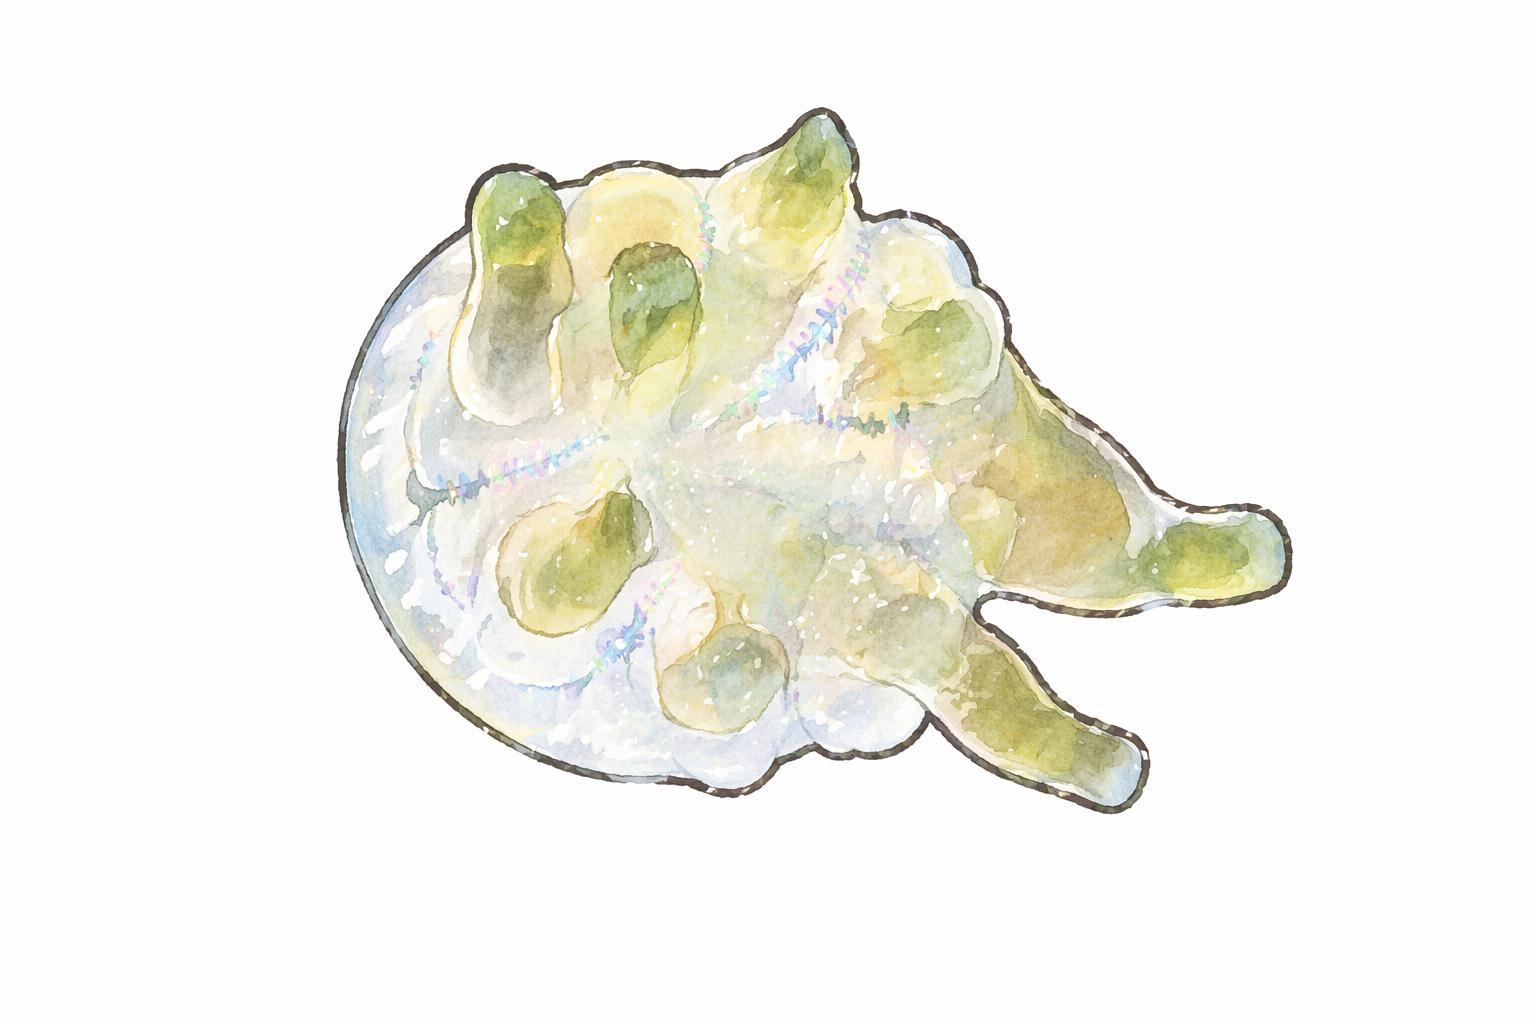
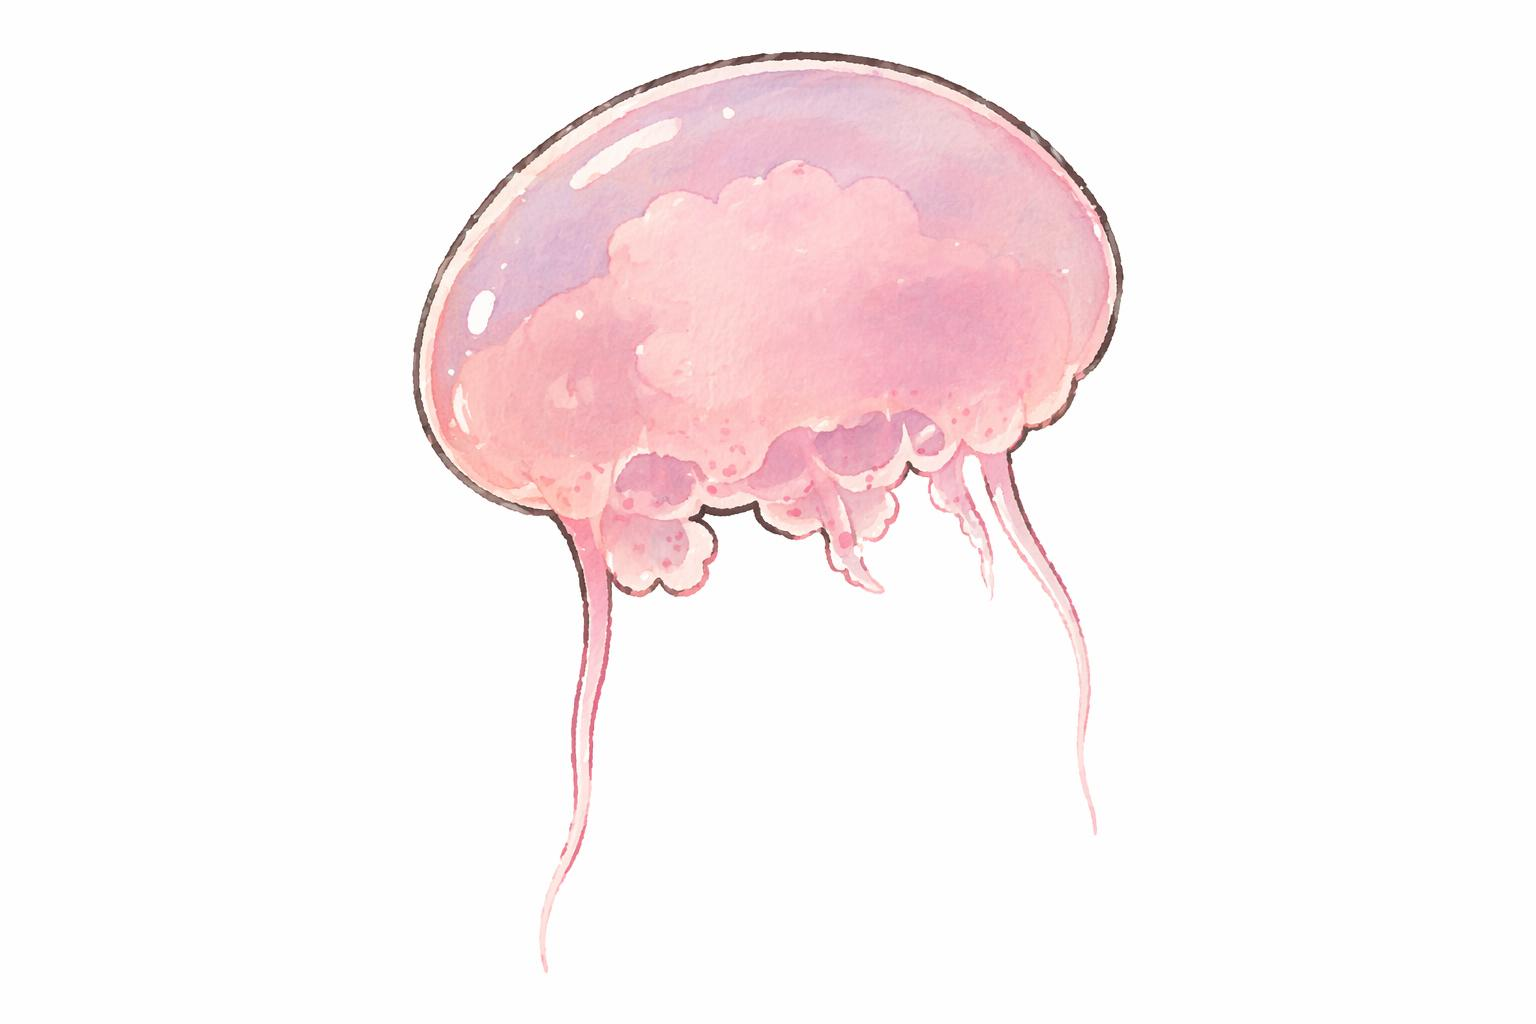
Update sample video and persist original media

Changed region(s): [[0.2188, 0.0312, 0.8438, 0.8125], [0.3438, 0.8125, 0.375, 0.9375]]

diff --git a/QiyuBook-iOS/QiyuBook/RecordHomeView.swift b/QiyuBook-iOS/QiyuBook/RecordHomeView.swift
@@ -111,18 +111,6 @@ struct RecordHomeView: View {
         } message: {
             Text(errorMessage ?? "")
         }
-        .confirmationDialog("选择示例内容", isPresented: $showSamplePicker) {
-            Button("示例照片") {
-                createSample(kind: .photo)
-            }
-            Button("示例短视频") {
-                createSample(kind: .shortVideo)
-            }
-            Button("示例长视频") {
-                createSample(kind: .longVideo)
-            }
-            Button("取消", role: .cancel) {}
-        }
     }
 
     private var uploadPanel: some View {
@@ -144,6 +132,7 @@ struct RecordHomeView: View {
             VStack(spacing: 10) {
                 Button {
                     showPhotoPicker = true
+                    showSamplePicker = false
                 } label: {
                     Label(isLoadingMedia ? "识别中..." : "上传图片或视频", systemImage: "photo.on.rectangle")
                 }
@@ -151,11 +140,26 @@ struct RecordHomeView: View {
                 .disabled(isLoadingMedia)
 
                 Button {
-                    showSamplePicker = true
+                    withAnimation(.spring(response: 0.28, dampingFraction: 0.86)) {
+                        showSamplePicker.toggle()
+                    }
                 } label: {
                     Text("使用示例内容")
                 }
                 .buttonStyle(SecondaryActionButtonStyle())
+                .overlay(alignment: .top) {
+                    if showSamplePicker {
+                        SamplePickerPopover { kind in
+                            withAnimation(.easeOut(duration: 0.16)) {
+                                showSamplePicker = false
+                            }
+                            createSample(kind: kind)
+                        }
+                        .offset(y: -218)
+                        .transition(.scale(scale: 0.94, anchor: .bottom).combined(with: .opacity))
+                        .zIndex(10)
+                    }
+                }
             }
             .padding(.top, 4)
         }
@@ -480,6 +484,61 @@ struct RecordHomeView: View {
         } catch {
             return String(format: "%.4f, %.4f", coordinate.latitude, coordinate.longitude)
         }
+    }
+}
+
+private struct SamplePickerPopover: View {
+    let onSelect: (SampleContentKind) -> Void
+
+    var body: some View {
+        VStack(spacing: 10) {
+            sampleButton("示例照片") {
+                onSelect(.photo)
+            }
+            sampleButton("示例短视频") {
+                onSelect(.shortVideo)
+            }
+            sampleButton("示例长视频") {
+                onSelect(.longVideo)
+            }
+        }
+        .padding(14)
+        .frame(width: 238)
+        .background(.regularMaterial, in: RoundedRectangle(cornerRadius: 22, style: .continuous))
+        .overlay(
+            RoundedRectangle(cornerRadius: 22, style: .continuous)
+                .stroke(AppTheme.line, lineWidth: 1)
+        )
+        .overlay(alignment: .bottom) {
+            SampleMenuPointer()
+                .fill(.regularMaterial)
+                .frame(width: 24, height: 13)
+                .offset(y: 12)
+        }
+        .shadow(color: AppTheme.ink.opacity(0.12), radius: 18, x: 0, y: 10)
+    }
+
+    private func sampleButton(_ title: String, action: @escaping () -> Void) -> some View {
+        Button(action: action) {
+            Text(title)
+                .font(.headline.weight(.semibold))
+                .foregroundStyle(AppTheme.ink)
+                .frame(maxWidth: .infinity)
+                .padding(.vertical, 12)
+        }
+        .buttonStyle(.plain)
+        .background(AppTheme.ink.opacity(0.08), in: Capsule())
+    }
+}
+
+private struct SampleMenuPointer: Shape {
+    func path(in rect: CGRect) -> Path {
+        var path = Path()
+        path.move(to: CGPoint(x: rect.midX, y: rect.maxY))
+        path.addLine(to: CGPoint(x: rect.minX, y: rect.minY))
+        path.addLine(to: CGPoint(x: rect.maxX, y: rect.minY))
+        path.closeSubpath()
+        return path
     }
 }
 

diff --git a/QiyuBook-iOS/QiyuBook/EncounterStore.swift b/QiyuBook-iOS/QiyuBook/EncounterStore.swift
@@ -17,6 +17,7 @@ final class EncounterStore: ObservableObject {
 
     @discardableResult
     func save(_ record: EncounterRecord) -> EncounterRecord {
+        let record = Self.recordWithPersistentMedia(record)
         if let index = records.firstIndex(where: { $0.id == record.id }) {
             records[index] = record
             persist()
@@ -125,7 +126,7 @@ final class EncounterStore: ObservableObject {
 
     func update(_ record: EncounterRecord) {
         guard let index = records.firstIndex(where: { $0.id == record.id }) else { return }
-        records[index] = record
+        records[index] = Self.recordWithPersistentMedia(record)
         persist()
     }
 
@@ -224,14 +225,14 @@ final class EncounterStore: ObservableObject {
             )
         case .shortVideo:
             return EncounterRecord(
-                name: "栉水母",
-                latin: "Ctenophora · 栉水母动物",
+                name: "水母",
+                latin: "Scyphozoa · 钵水母纲",
                 confidence: "准确",
-                summary: "看起来像一团透明果冻，其实身上藏着会折射彩光的小梳子。",
+                summary: "粉色半透明的伞状身体，像一盏慢慢漂过来的水晶灯。",
                 facts: [
-                    EncounterFact(title: "它是谁：透明的栉水母", text: "栉水母不是普通水母。它们没有刺细胞，身体通常透明，靠一排排像梳齿的纤毛板在水中移动。"),
-                    EncounterFact(title: "怎么生活：慢慢漂也会捕食", text: "它们多在水体中漂游，捕食小型浮游动物。有些种类会用黏性的触手捕捉猎物。"),
-                    EncounterFact(title: "冷知识：彩虹不是它在发光", text: "你看到的彩色闪烁，多数是纤毛板运动时对光的折射，不一定是生物发光。")
+                    EncounterFact(title: "1️⃣ 它是谁：伞状的“漂浮者”", text: "它是钵水母纲的一员，身体像一把半透明的小伞，伞缘下方有细软触手。视频里这只呈粉色，在蓝色水体里特别显眼。"),
+                    EncounterFact(title: "2️⃣ 怎么生活：靠“脉动”慢慢游", text: "水母会通过伞体一张一合向前移动，但更多时候也会顺着水流漂。触手能帮助它捕捉微小浮游生物，是安静但有效的猎手。"),
+                    EncounterFact(title: "3️⃣ 冷知识：它没有鱼那样的大脑", text: "水母没有鱼类那种集中式大脑，而是依靠神经网感知环境和协调动作，所以它看起来轻飘飘，却不是随便乱飘。")
                 ],
                 artworkBase64: Self.sampleArtworkBase64(fileName: "sample_jellyfish_artwork"),
                 mediaKind: .video,
@@ -241,7 +242,7 @@ final class EncounterStore: ObservableObject {
                 location: "示例地点",
                 latitude: nil,
                 longitude: nil,
-                tags: ["透明生物", "浮游"]
+                tags: ["水母", "浮游生活"]
             )
         case .longVideo:
             return EncounterRecord(
@@ -280,6 +281,45 @@ final class EncounterStore: ObservableObject {
             return nil
         }
         return data.base64EncodedString()
+    }
+
+    private static func recordWithPersistentMedia(_ record: EncounterRecord) -> EncounterRecord {
+        var record = record
+        if let mediaURL = record.mediaURL,
+           let referenceImageURL = record.referenceImageURL,
+           mediaURL == referenceImageURL,
+           let persistentURL = persistentMediaURL(for: mediaURL) {
+            record.mediaURL = persistentURL
+            record.referenceImageURL = persistentURL
+            return record
+        }
+
+        record.mediaURL = persistentMediaURL(for: record.mediaURL)
+        record.referenceImageURL = persistentMediaURL(for: record.referenceImageURL)
+        return record
+    }
+
+    private static func persistentMediaURL(for url: URL?) -> URL? {
+        guard let url, url.isFileURL else { return url }
+        let fileManager = FileManager.default
+        let directory = mediaDirectoryURL
+        guard !url.path.hasPrefix(directory.path) else { return url }
+        guard fileManager.fileExists(atPath: url.path) else { return nil }
+
+        do {
+            try fileManager.createDirectory(at: directory, withIntermediateDirectories: true)
+            let ext = url.pathExtension.isEmpty ? "dat" : url.pathExtension
+            let destination = directory.appendingPathComponent(UUID().uuidString).appendingPathExtension(ext)
+            try fileManager.copyItem(at: url, to: destination)
+            return destination
+        } catch {
+            return url
+        }
+    }
+
+    private static var mediaDirectoryURL: URL {
+        FileManager.default.urls(for: .documentDirectory, in: .userDomainMask)[0]
+            .appendingPathComponent("Media", isDirectory: true)
     }
 
     private static var storageURL: URL {

diff --git a/QiyuBook-iOS/QiyuBook/Components.swift b/QiyuBook-iOS/QiyuBook/Components.swift
@@ -286,13 +286,29 @@ struct MetaPill: View {
 struct MediaPreviewSheet: View {
     @Environment(\.dismiss) private var dismiss
     let record: EncounterRecord
+    @State private var player: AVPlayer?
 
     var body: some View {
         NavigationStack {
             Group {
                 if let mediaURL = record.mediaURL, record.mediaKind == .video {
-                    VideoPlayer(player: AVPlayer(url: mediaURL))
+                    VideoPlayer(player: player)
+                        .onAppear {
+                            let player = AVPlayer(url: mediaURL)
+                            self.player = player
+                            player.play()
+                        }
+                        .onDisappear {
+                            player?.pause()
+                            player = nil
+                        }
                 } else if let mediaURL = record.mediaURL, let image = UIImage(contentsOfFile: mediaURL.path) {
+                    Image(uiImage: image)
+                        .resizable()
+                        .scaledToFit()
+                        .frame(maxWidth: .infinity, maxHeight: .infinity)
+                        .background(Color.black)
+                } else if let referenceImageURL = record.referenceImageURL, let image = UIImage(contentsOfFile: referenceImageURL.path) {
                     Image(uiImage: image)
                         .resizable()
                         .scaledToFit()